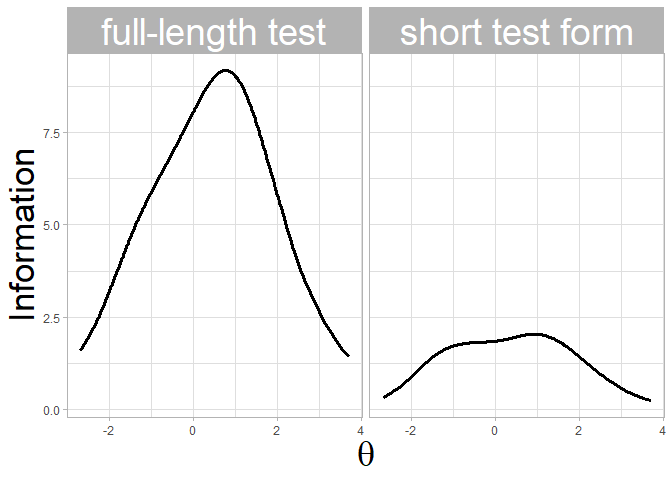
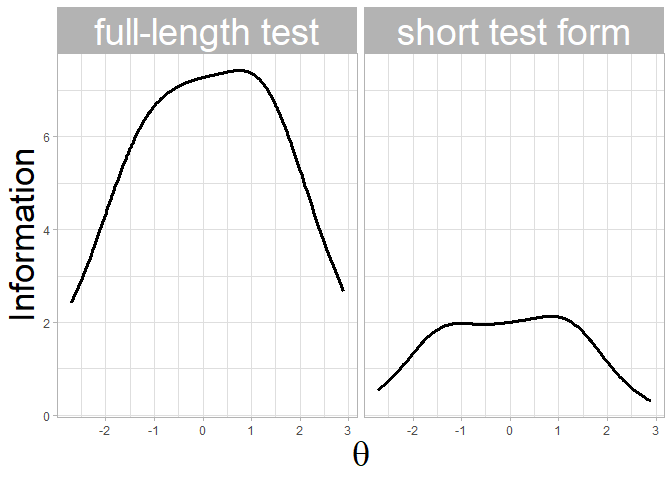
typos & updates

diff --git a/README.md b/README.md
@@ -52,6 +52,7 @@ items.
 
 ``` r
 library(shortIRT)
+#> Warning: il pacchetto 'shortIRT' è stato creato con R versione 4.3.2
 ```
 
 First, generate the responses of 1,000 respondents to the 20 items of
@@ -67,7 +68,7 @@ the full-length test:
  data <- sirt::sim.raschtype(true_theta, b = b, fixed.a = a)
 ```
 
-Then, use the EIP for the development of the 5-item STF, incuding also
+Then, use the EIP for the development of the 5-item STF, including also
 the matrix of the item parameters and the true $\theta$ of the subjects
 (these arguments are not mandatory).
 
@@ -77,11 +78,11 @@ stf_eip <- eip(data, item_par = parameters, starting_theta = true_theta, num_ite
 # the optimal item for each theta target
 stf_eip$item_stf
 #>     item theta_target item_info stf_length
-#> 8    I08      -2.0400 0.6501277      STF-5
-#> 42   I12      -0.7595 0.8160365      STF-5
-#> 65   I05       0.5205 0.8583194      STF-5
-#> 113  I23       1.7950 0.7219224      STF-5
-#> 145  I25       3.0700 0.3271706      STF-5
+#> 2    I02      -2.1550 0.6658502      STF-5
+#> 52   I22      -1.0295 0.7540494      STF-5
+#> 74   I14       0.0915 0.8915867      STF-5
+#> 95   I05       1.2110 0.8691818      STF-5
+#> 144  I24       2.3350 0.4488457      STF-5
 ```
 
 Plot the test information function of both the full-length test and the
@@ -104,13 +105,13 @@ between $\theta$s:
 ``` r
 bias_eip <- diff_theta(stf_eip, true_theta = true_theta)
 head(bias_eip)
-#>    true_theta     stf_theta  difference abs_difference
-#> 1 -0.52859426  3.694458e-80 -0.52859426     0.52859426
-#> 2  0.19472782  3.694458e-80  0.19472782     0.19472782
-#> 3  1.86363627  8.015177e-79  1.86363627     1.86363627
-#> 4 -0.44136616  3.694458e-80 -0.44136616     0.44136616
-#> 5  0.03330607 -7.390894e-79  0.03330607     0.03330607
-#> 6  0.57423427  6.055238e-79  0.57423427     0.57423427
+#>   true_theta     stf_theta difference abs_difference
+#> 1 -1.2522175 -3.822527e-79 -1.2522175      1.2522175
+#> 2  0.6921845  2.936331e-79  0.6921845      0.6921845
+#> 3  1.6889284  1.397124e-78  1.6889284      1.6889284
+#> 4 -1.6417720 -3.822527e-79 -1.6417720      1.6417720
+#> 5  0.6852846  2.952000e-79  0.6852846      0.6852846
+#> 6 -1.9871210 -1.462003e-78 -1.9871210      1.9871210
 ```
 
 Finally, bias can also be plotted with the function `plot_difference()`

diff --git a/NEWS.md b/NEWS.md
@@ -1,3 +1,5 @@
-# shortIRT 0.1.0
+# shortIRT 0.1.1
 
 * Added a `NEWS.md` file to track changes to the package.
+
+* Changed the direction of the bias computation in the diff_theta function
